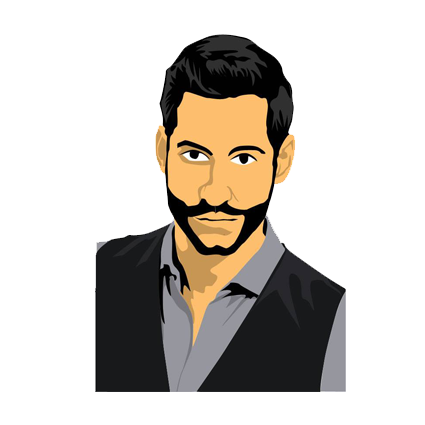
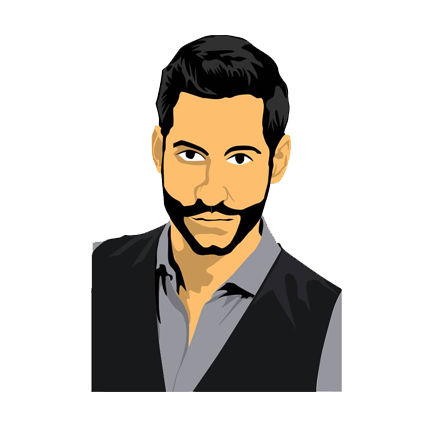
putting images for contacts.html

diff --git a/styles/eduStyles.css b/styles/eduStyles.css
@@ -1,0 +1,5 @@
+img {
+
+    height: 40%;
+    width: 30%;
+}
